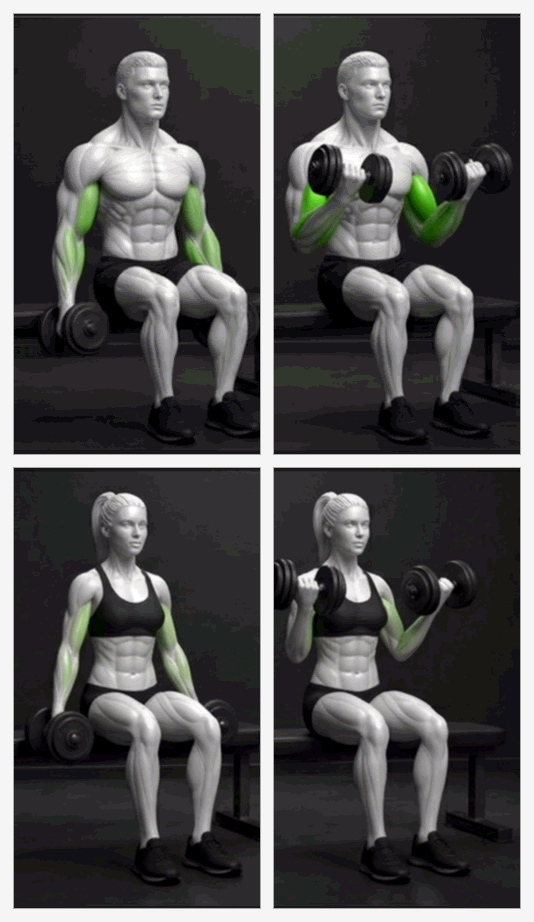
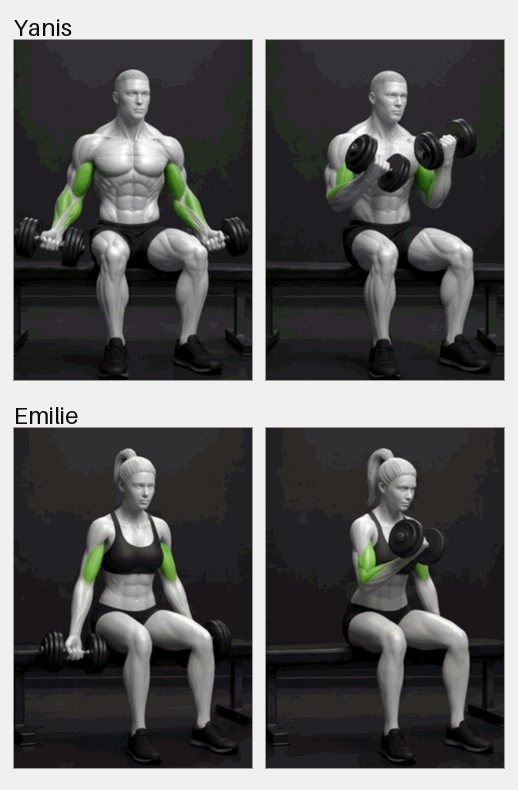
Refonte : curl marteau recalque sur le dessin de reference, cadre commun aux deux modeles

diff --git a/evolution/media/tools/planche-style.py b/evolution/media/tools/planche-style.py
@@ -330,9 +330,13 @@ def main():
         image = nettoyer_filets(image, lignes, colonnes)
         cellules = [image.crop(boite) for boite in decouper(image, lignes, colonnes)]
         if lignes == 2:
+            # Une seule fenetre pour les deux modeles : le meme mouvement garde
+            # le meme cadre et la meme echelle chez Yanis et chez Emilie.
+            toutes = [cellules[rang * colonnes + colonne]
+                      for rang in range(lignes) for colonne in pris]
+            boite, cadre, orientation = fenetre(toutes, args.orientation, args.fenetre)
             for rang, profil in enumerate(PROFILS):
                 prises = [cellules[rang * colonnes + colonne] for colonne in pris]
-                boite, cadre, orientation = fenetre(prises, args.orientation, args.fenetre)
                 images = [ajuster(cellule, boite, cadre) for cellule in prises]
                 cible = args.out / ('%s-%s.gif' % (source.stem, profil))
                 enregistrer(cible, images)
